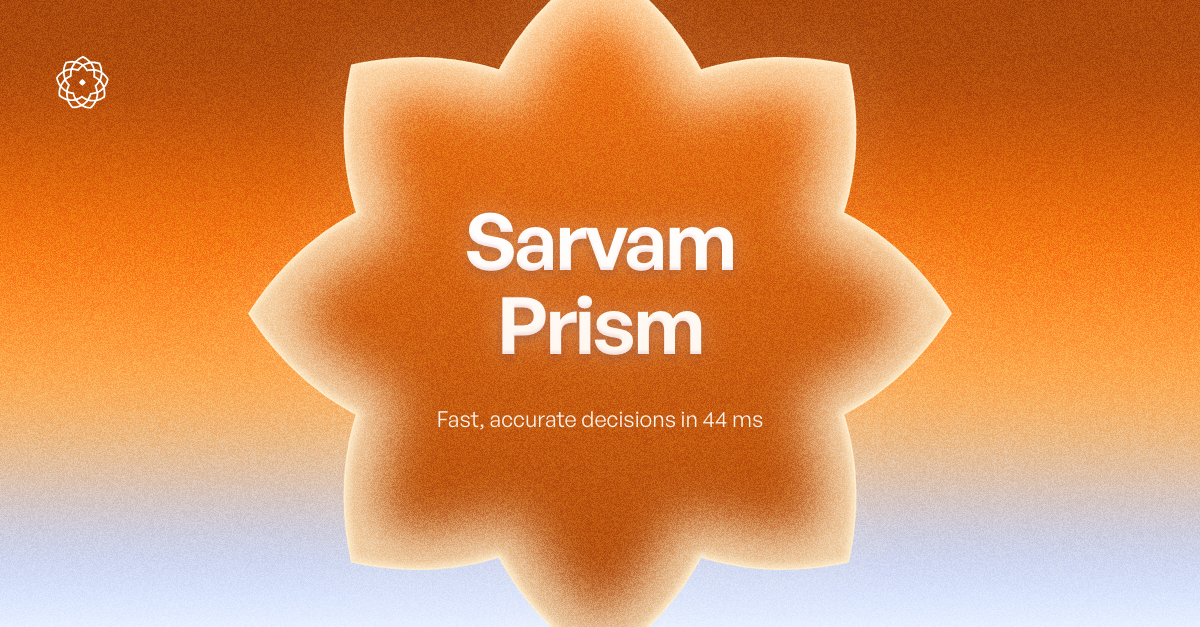
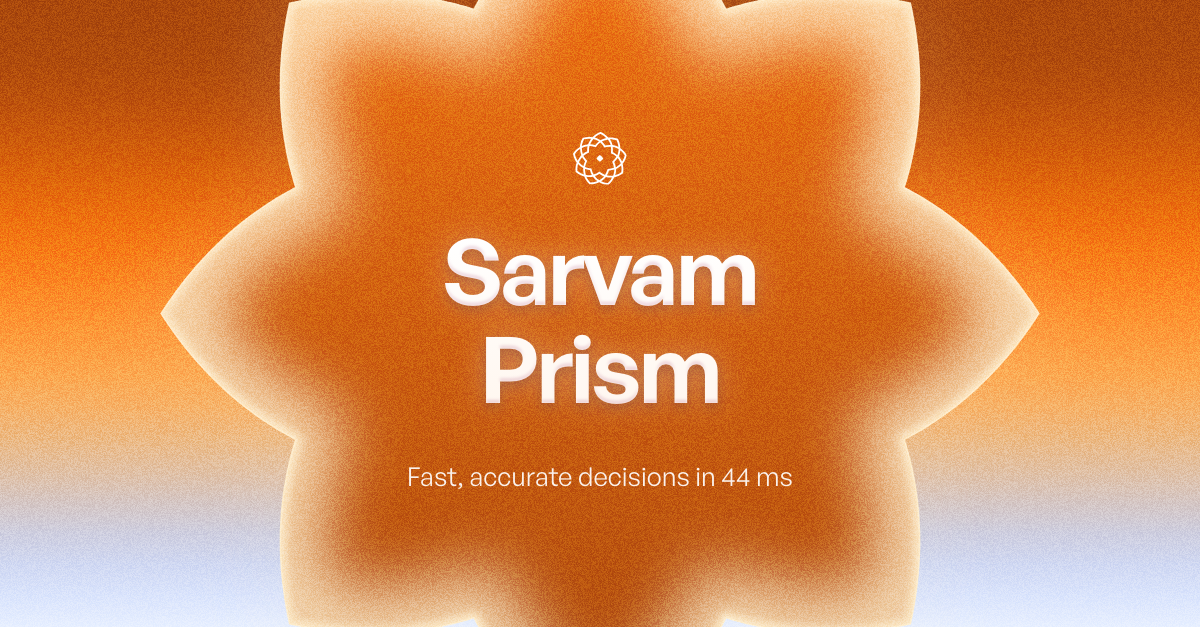
Prism LinkedIn: logomark inside the star above the title; bigger star via landScale

diff --git a/src/components/sarvam/composer.tsx b/src/components/sarvam/composer.tsx
@@ -32,9 +32,11 @@ export type BannerSpec = {
   card?: "plan" | "research" | "review";   // product moment shown inside the device (split / stacked only); arch-window shows it through the arch
   icon?: EmblemIcon;               // emblem device: the one object that stands for the subject
   titleSize?: { portrait?: number; landscape?: number };
-  lineSize?: { portrait?: number; landscape?: number };    // set the supporting line size directly (px)   // set the headline size directly (px); the text box widens to hold it, centred
+  lineSize?: { portrait?: number; landscape?: number };
+  textShift?: { portrait?: number; landscape?: number };   // nudge the whole text block vertically (px, negative = up)    // set the supporting line size directly (px)   // set the headline size directly (px); the text box widens to hold it, centred
   logoTone?: "white" | "black";   // override the logo colour (e.g. white on a gradient whose top is dark)
-  logoLeftOnLinkedIn?: boolean;    // top logo sits top-left on LinkedIn (when the shape fills the top centre)
+  markOnLinkedIn?: MarkPlace;      // LinkedIn logo place when it differs from Meta (e.g. inside the shape above the title)
+  landScale?: number;              // medallion-glow + whole: shape height on LinkedIn as a multiple of the frame height (default 1.12)
   whole?: boolean;                 // medallion-glow: keep the whole shape in frame on LinkedIn too (no vertical bleed)
   divider?: string;                // a /studio divider preset ABOVE the headline (always the first thing in the text block), drawn in the spectrum
   horizon?: "top" | "bottom";      // the hero's Sun gradient as a horizon from one edge, reaching about half way
@@ -253,7 +255,7 @@ function renderDevice(spec: BannerSpec, F: Frame, id: string, beside = false, _f
     // Padding rule: ≥ 1.5·M clear on both sides always; on portrait the shape sits fully inside (≥ M top and bottom); landscape may bleed vertically only.
     const sideMax = (F.W - F.M * 3) / g.width;
     // whole: the shape reads as the same object on Meta and LinkedIn (on LinkedIn only its top and bottom tips touch the edges)
-    const s = glow ? (land && !spec.whole ? Math.min(sideMax, Math.max((F.W * 0.78) / g.width, (F.H * 1.22) / g.height)) : Math.min(sideMax, (land ? F.H * 1.12 : F.H - F.M * 2) / g.height))
+    const s = glow ? (land && !spec.whole ? Math.min(sideMax, Math.max((F.W * 0.78) / g.width, (F.H * 1.22) / g.height)) : Math.min(sideMax, (land ? F.H * (spec.landScale ?? 1.12) : F.H - F.M * 2) / g.height))
                    : (land ? Math.min((F.W * 0.5) / g.width, (F.H * 0.86) / g.height) : Math.min((F.W * 0.66) / g.width, (F.H * 0.62) / g.height));
     const w = g.width * s, h = g.height * s;
     const cx = F.W / 2, cy = F.H / 2;
@@ -720,8 +722,10 @@ function CardSlot({ kind, area }: { kind: "plan" | "research" | "review"; area: 
 
 const SECONDARY_FILL: Record<Treatment, TextFill> = { white: "white", gold: "goldMute", indigo: "indigo", ink: "ink" };
 
-function BannerImpl({ spec, format, id }: { spec: BannerSpec; format: BannerFormat; id: string }) {
+function BannerImpl({ spec: spec0, format, id }: { spec: BannerSpec; format: BannerFormat; id: string }) {
   const F = FORMATS[format], land = format === "landscape";
+  // per-format logo place: LinkedIn may put the logo somewhere else than Meta
+  const spec: BannerSpec = land && spec0.markOnLinkedIn ? { ...spec0, mark: spec0.markOnLinkedIn } : spec0;
   // Layout rearranges per format: split needs width (portrait/square → stacked); stacked needs height (landscape → split).
   // Text-free devices sit beside the text; the script mandala holds the text on portrait and sits beside it on landscape.
   const req: Layout = EDITORIAL.has(spec.device) ? "editorial" : BESIDE.has(spec.device) ? "split" : spec.device === "script-mandala" ? (land ? "split" : "centered") : spec.layout ?? "centered";
@@ -782,11 +786,19 @@ function BannerImpl({ spec, format, id }: { spec: BannerSpec; format: BannerForm
   const forced = spec.titleSize?.[format === "landscape" ? "landscape" : "portrait"];
   const forcedLine = spec.lineSize?.[format === "landscape" ? "landscape" : "portrait"];
   const S = { p: forced ?? Math.round(base.p * k), s: forcedLine ? forcedLine / (land ? 1 : 0.94) : Math.round(Math.max(base.s * k, land ? 20 : 28)), gap: base.gap };
+  const S0gap = base.gap;
   if (forced) {
     // widen the text box (centred) to the widest forced line at this size, so the title isn't re-wrapped smaller
     const need = Math.max(...spec.primary.split("\n").map((l) => l.length)) * forced * charW(pFont, pWeight, spec.primary) * 1.04;
     if (need > open.w) open = { ...open, x: open.x - (need - open.w) / 2, w: need };
+    // and tall enough for the whole stack at the forced size (centred, so the layout doesn't move)
+    const lines = spec.primary.split("\n").length, sLines = spec.secondary ? 1 : 0;
+    const markH = spec.mark === "inside" && layout === "centered" ? (spec.logo === "logomark" ? markW * 0.55 : land ? 16 : 20) + base.gap * 0.7 + S0gap : 0;
+    const needH = markH + lines * forced * (sans ? 1.06 : 1.04) + forced * 0.7 + (sLines ? S0gap + (land ? 26 : 34) * 1.6 : 0);
+    if (needH > open.h) open = { ...open, y: open.y - (needH - open.h) / 2, h: needH };
   }
+  const shift = spec.textShift?.[land ? "landscape" : "portrait"];
+  if (shift) open = { ...open, y: open.y + shift };
   const primary = (
     <StyledText data-qa="text" id={`${id}-p`} text={spec.primary} width={open.w} size={S.p} fill={spec.treatment} align={align}
       font={sans ? "text" : "display"} weight={sans ? 600 : 400} tracking={num ? -0.05 : sans ? -0.035 : -0.04} leading={sans ? 1.06 : 1.04} />
@@ -805,7 +817,7 @@ function BannerImpl({ spec, format, id }: { spec: BannerSpec; format: BannerForm
       <img src="/brand/grain.png" alt="" aria-hidden width={1200} height={1350} style={{ position: "absolute", left: 0, top: 0, mixBlendMode: "overlay", pointerEvents: "none", maxWidth: "none" }} />
       {!centreMark && (spec.mark === "top" || (spec.mark === "inside" && layout !== "centered")) && (
         <Lockup logomark={spec.logo === "logomark"} tone={spec.logoTone ?? (layout === "centered" || editorial ? markTone : onLight ? "black" : "white")} width={markW} partner={spec.partner}
-          style={{ position: "absolute", top: F.M, ...(align === "left" || (land && spec.logoLeftOnLinkedIn) ? { left: editorial ? F.M * 1.5 : F.M } : { left: 0, right: 0, justifyContent: "center" }) }} />
+          style={{ position: "absolute", top: F.M, ...(align === "left" ? { left: editorial ? F.M * 1.5 : F.M } : { left: 0, right: 0, justifyContent: "center" }) }} />
       )}
       {spec.mark === "bottom" && <Lockup logomark={spec.logo === "logomark"} tone={markTone} width={markW} partner={spec.partner} style={{ position: "absolute", bottom: land ? 36 : F.M, left: 0, right: 0, justifyContent: "center" }} />}
       <div data-qa="open" style={{ position: "absolute", left: open.x, top: open.y, width: open.w, height: open.h, display: "flex", flexDirection: "column", alignItems: align === "left" ? "flex-start" : "center", justifyContent: editorial ? D.textJustify ?? "flex-end" : layout === "split" ? "flex-start" : "center", gap: S.gap, textAlign: align }}>

diff --git a/process/prompt-log.md b/process/prompt-log.md
@@ -537,3 +537,9 @@ Entry format:
 - Prompt (verbatim): [meta-prism screenshot] "In these have that Sarvam spiral logo out of the pattern on top. Don't change anything else in both landscape and portrait."
 - `prism` now has the logomark at the top, outside the star. Nothing else changed.
 - After looking: the logo rendered black (the dawn ground counts as light) → new `logoTone: "white"`. On LinkedIn the star fills the top centre, so a centred logo landed inside the pattern → new `logoLeftOnLinkedIn`, which puts it top-left at the margin. QA PASS, re-exported.
+
+## 2026-11-04 — Prism LinkedIn: logomark inside the star, above the title
+- Prompts (verbatim): "in landscape put it in the pattern only. Just about the title" → "Shift it a little bit upward." → "You know what you can do to fit it? Increase the size of the pattern in the landscape only, then fix the logo. It will be fitted perfectly."
+- New `markOnLinkedIn` option: LinkedIn puts the logomark inside the star above the title; Meta keeps it above the star.
+- With the logo inside, the title shrank (79 → 68px). I first patched it with a forced size, a forced line break and an upward nudge (the new `titleSize` and `textShift` options, plus a taller box for forced sizes).
+- Malay's better fix: grow the star on LinkedIn only (new `landScale`, 1.12 → 1.4 × frame height). The opening grows, and the logo + two-line title + line fit at full size with no overrides, so the patches were removed from this banner. QA PASS.
